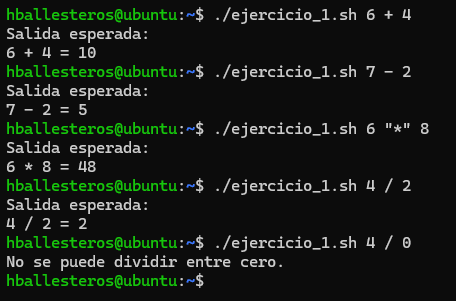
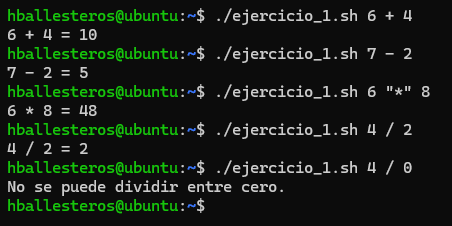
pr0303

Changed region(s): [[0.0, 0.031, 0.9602, 0.9602]]

diff --git a/ut03/pr0303/pr0303.md b/ut03/pr0303/pr0303.md
@@ -6,7 +6,7 @@ Script:
 ```bash
 #!/bin/bash
 
-# Damos valores para escribirlos junto /.script.sh
+# Damos los parámetros para escribirlos junto /.script.sh
 num1=$1
 operacion=$2
 num2=$3
@@ -15,18 +15,11 @@ num2=$3
 case $operacion in
   +)
     resultado=$(("$num1" + "$num2"))
-    echo "Salida esperada:"
     echo "$num1 + $num2 = $resultado"
     ;;
   -)
     resultado=$(("$num1" - "$num2"))
-    echo "Salida esperada:"
     echo "$num1 - $num2 = $resultado"
-    ;;
-  x|*)
-    resultado=$(("$num1" * "$num2"))
-    echo "Salida esperada:"
-    echo "$num1 * $num2 = $resultado"
     ;;
   /)
     # Para que no se divida entre 0
@@ -34,9 +27,13 @@ case $operacion in
       echo "No se puede dividir entre cero."
     else
       resultado=$(("$num1" / "$num2"))
-      echo "Salida esperada:"
       echo "$num1 / $num2 = $resultado"
     fi
+    ;;
+  *)
+    # Al ejecutar, pondremos "*" para evitar errores
+    resultado=$(("$num1" * "$num2"))
+    echo "$num1 * $num2 = $resultado"
     ;;
 esac
 ```
@@ -49,12 +46,26 @@ Resultado:
 
 Script:
 ```bash
-grep -E "^[0-9]{1,3}\.[0-9]{1,3}\.[0-9{1,3}]\.[0-9]{1,3}$"
+#!/bin/bash
+
+# Creamos el parámetro para una IP vacía
+ip=$1
+
+if [ -z "$ip" ]; then
+    read -p "Escriba una dirección IP: " ip
+fi
+
+# Validamos con grep el formato X.X.X.X
+if echo "$ip" | grep -E -q "^[0-9]{1,3}\.[0-9]{1,3}\.[0-9]{1,3}\.[0-9]{1,3}$"; then
+    echo "La IP $ip es válida."
+else
+    echo "La IP $ip no es válida."
+fi
 ```
 
 Resultado:
 
-![2]()
+![2](imagenes/2.png)
 
 **3.** Crea un script que cuente archivos de distintos tipos en un directorio. Debe recibir el directorio como **parámetro**, si no se pasara el parámetro, lo solicitará al usuario. Mostrará cuántos archivos hay de cada extensión.
 
